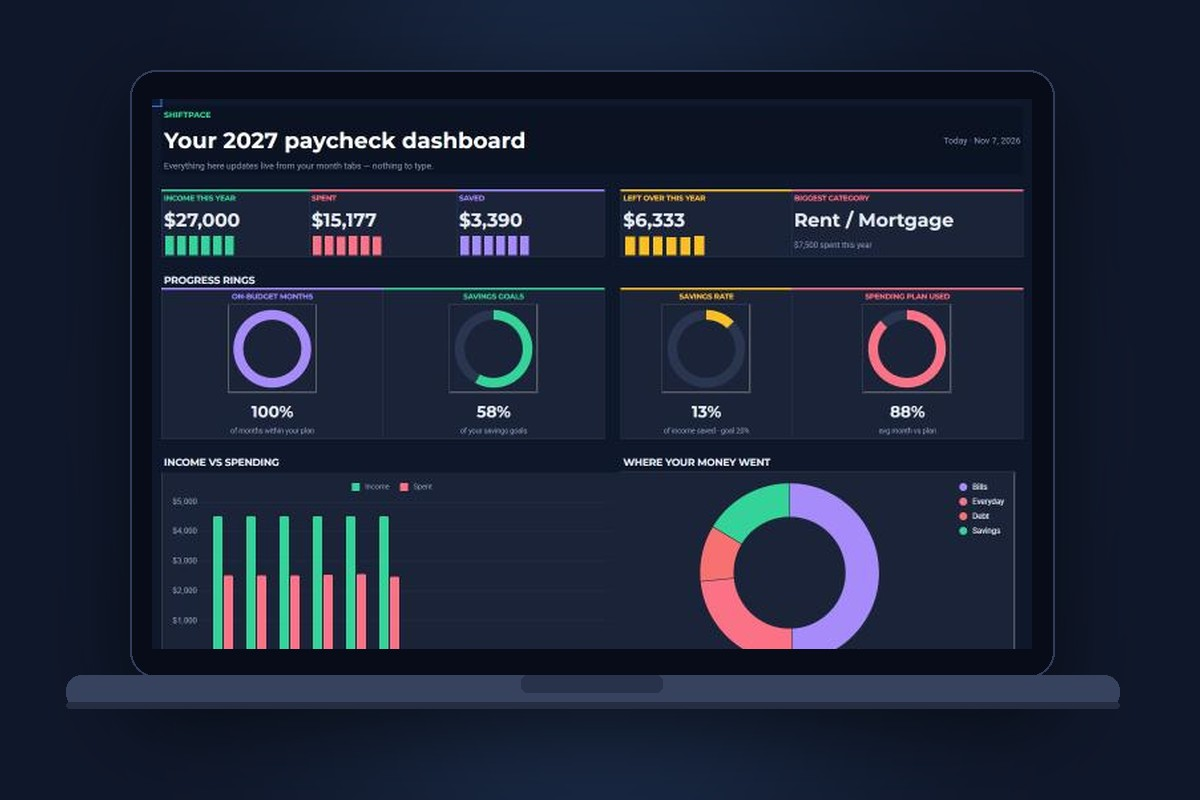
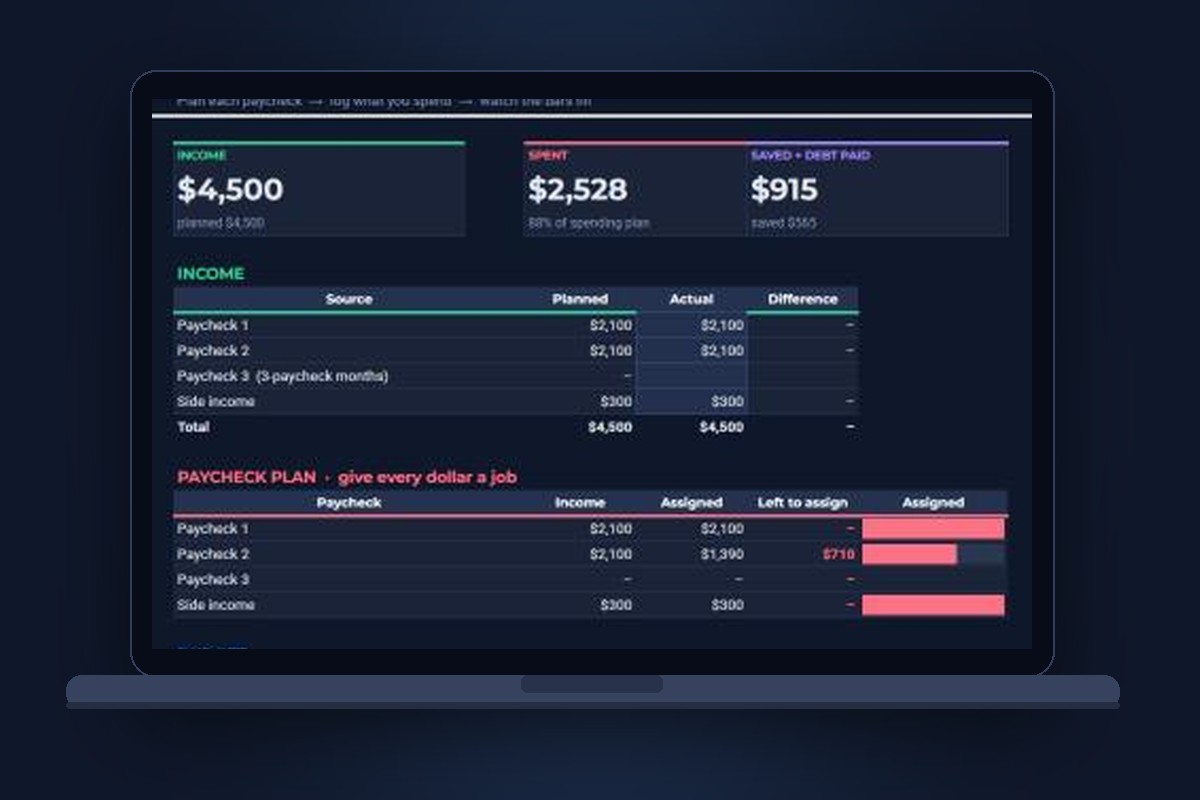
Add files via upload

Changed region(s): [[0.1233, 0.125, 0.8633, 0.8125], [0.4933, 0.75, 0.5242, 0.7812]]

diff --git a/testers.html b/testers.html
@@ -1,0 +1,141 @@
+<!doctype html>
+<html lang="en">
+<head>
+<meta charset="utf-8">
+<meta name="viewport" content="width=device-width, initial-scale=1">
+<title>Become a ShiftPace Founding Tester</title>
+<meta name="description" content="10 people get the 2027 Life Reset Bundle free in exchange for an honest video review.">
+<meta property="og:title" content="Become one of 10 ShiftPace Founding Testers">
+<meta property="og:description" content="Get all 5 Google Sheets planners free in exchange for an honest video review.">
+<meta property="og:image" content="https://shiftpace.github.io/img/card-bundle.jpg">
+<meta name="theme-color" content="#0F172A">
+<link rel="icon" href="favicon.svg" type="image/svg+xml">
+<link rel="icon" href="img/favicon-32.png" type="image/png" sizes="32x32">
+<link rel="apple-touch-icon" href="img/apple-touch-icon.png">
+<link rel="preconnect" href="https://fonts.googleapis.com">
+<link rel="preconnect" href="https://fonts.gstatic.com" crossorigin>
+<link href="https://fonts.googleapis.com/css2?family=Inter:wght@400;500;600;700;800&display=swap" rel="stylesheet">
+<style>
+:root{--bg:#0F172A;--card:#1A2338;--line:#26324D;--text:#E6EAF2;--muted:#94A3B8;--green:#34D399;--cyan:#22D3EE;--pink:#FB7185;--blue:#60A5FA;--yellow:#FBBF24;--violet:#A78BFA}
+*{box-sizing:border-box;margin:0;padding:0}
+body{background:var(--bg);color:var(--text);font-family:Inter,system-ui,sans-serif;line-height:1.65;-webkit-font-smoothing:antialiased}
+a{color:var(--cyan)}
+.wrap{max-width:880px;margin:0 auto;padding:0 20px}
+nav{border-bottom:1px solid var(--line)}
+nav .wrap{display:flex;justify-content:space-between;align-items:center;height:64px}
+.logo{display:flex;align-items:center;gap:10px;font-weight:800;font-size:19px;color:var(--text);text-decoration:none}
+nav a.back{color:var(--muted);text-decoration:none;font-size:15px}
+.hero{padding:56px 0 8px;display:grid;grid-template-columns:1.1fr .9fr;gap:36px;align-items:center}
+@media(max-width:800px){.hero{grid-template-columns:1fr}}
+.eyebrow{display:inline-block;font-size:13px;font-weight:700;letter-spacing:.08em;text-transform:uppercase;color:var(--green);margin-bottom:12px}
+h1{font-size:clamp(32px,5vw,48px);font-weight:800;letter-spacing:-.02em;line-height:1.12;margin-bottom:14px}
+h1 span{background:linear-gradient(90deg,var(--green),var(--cyan));-webkit-background-clip:text;background-clip:text;color:transparent}
+.lead{color:var(--muted);font-size:18px;margin-bottom:24px}
+.hero img{width:100%;height:auto;border-radius:18px;display:block}
+.btn{display:inline-flex;align-items:center;justify-content:center;font-weight:700;font-size:17px;padding:15px 26px;border-radius:12px;background:var(--green);color:#06281C;text-decoration:none;box-shadow:0 8px 24px -8px rgba(52,211,153,.55);transition:transform .15s}
+.btn:hover{transform:translateY(-2px)}
+.meta{display:flex;flex-wrap:wrap;gap:8px 18px;margin-top:16px;color:var(--muted);font-size:14px}
+.meta b{color:var(--text)}
+.spots{display:inline-flex;align-items:center;gap:8px;background:rgba(52,211,153,.12);border:1px solid rgba(52,211,153,.35);color:var(--green);font-weight:700;font-size:14px;padding:6px 12px;border-radius:99px;margin-bottom:16px}
+.spots i{width:8px;height:8px;border-radius:50%;background:var(--green);display:block}
+h2{font-size:26px;font-weight:800;margin:56px 0 18px;letter-spacing:-.01em}
+.steps{display:grid;grid-template-columns:repeat(4,1fr);gap:14px}
+@media(max-width:800px){.steps{grid-template-columns:1fr 1fr}}
+@media(max-width:480px){.steps{grid-template-columns:1fr}}
+.step{background:var(--card);border:1px solid var(--line);border-radius:16px;padding:20px}
+.num{width:38px;height:38px;border-radius:50%;border:3px solid var(--c);color:var(--c);display:grid;place-items:center;font-weight:800;margin-bottom:12px}
+.step h3{font-size:16px;margin-bottom:4px}
+.step p{color:var(--muted);font-size:14px}
+.film{background:var(--card);border:1px solid var(--line);border-radius:16px;padding:8px 22px}
+.film div{display:grid;grid-template-columns:110px 1fr;gap:14px;padding:14px 0;border-bottom:1px solid var(--line)}
+.film div:last-child{border-bottom:0}
+.film b{color:var(--cyan);font-size:14px}
+.film span{color:#CBD5E1;font-size:15px}
+.note{margin-top:14px;color:var(--muted);font-size:14px}
+ul.rules{list-style:none;display:grid;gap:10px}
+ul.rules li{background:var(--card);border:1px solid var(--line);border-radius:12px;padding:14px 18px;color:#CBD5E1;font-size:15px}
+ul.rules li b{color:var(--text)}
+details{background:var(--card);border:1px solid var(--line);border-radius:14px;padding:4px 20px;margin-bottom:10px}
+summary{cursor:pointer;font-weight:700;padding:14px 0;list-style:none}
+summary::-webkit-details-marker{display:none}
+details p{color:var(--muted);padding:0 0 16px;font-size:15px}
+.cta{margin:56px 0 0;background:var(--card);border:1px solid rgba(52,211,153,.35);border-radius:22px;padding:40px 24px;text-align:center}
+.cta p{color:var(--muted);margin:8px 0 22px}
+footer{border-top:1px solid var(--line);margin-top:56px;padding:28px 0;color:var(--muted);font-size:13px}
+</style>
+</head>
+<body>
+<nav><div class="wrap">
+  <a class="logo" href="index.html"><svg width="28" height="28" viewBox="0 0 36 36"><circle cx="18" cy="18" r="14" fill="none" stroke="#26324D" stroke-width="5"/><circle cx="18" cy="18" r="14" fill="none" stroke="#34D399" stroke-width="5" stroke-linecap="round" stroke-dasharray="66 88" transform="rotate(-90 18 18)"/><circle cx="18" cy="18" r="6.5" fill="none" stroke="#22D3EE" stroke-width="3.5" stroke-linecap="round" stroke-dasharray="28 41" transform="rotate(-90 18 18)"/></svg>ShiftPace</a>
+  <a class="back" href="index.html">← Back to planners</a>
+</div></nav>
+
+<main class="wrap">
+<section class="hero">
+  <div>
+    <span class="eyebrow">Founding Testers</span>
+    <div class="spots"><i></i><span id="spots">10 spots</span></div>
+    <h1>Get all 5 planners <span>free</span> for an honest video review</h1>
+    <p class="lead">We’re a brand-new brand and we want real feedback from real people. Use the 2027 Life Reset Bundle for a week or two, then tell us — on camera — what you honestly think.</p>
+    <a class="btn apply" href="#" target="_blank" rel="noopener">Apply in 2 minutes</a>
+    <div class="meta"><span><b>$29</b> value</span><span>US residents 18+</span><span>Applications close <b id="deadline">November 30, 2026</b></span></div>
+  </div>
+  <img src="img/card-bundle.jpg" alt="All five ShiftPace planners" width="1200" height="800">
+</section>
+
+<h2>How it works</h2>
+<div class="steps">
+  <div class="step" style="--c:var(--green)"><div class="num">1</div><h3>Apply</h3><p>Fill out a short form: who you are and what you’d use the planners for.</p></div>
+  <div class="step" style="--c:var(--cyan)"><div class="num">2</div><h3>Get picked</h3><p>We choose 10 testers based on their applications and email you the bundle.</p></div>
+  <div class="step" style="--c:var(--violet)"><div class="num">3</div><h3>Use it</h3><p>Set up your planner and use it for 7–14 days, the way you normally would.</p></div>
+  <div class="step" style="--c:var(--yellow)"><div class="num">4</div><h3>Send a video</h3><p>Record a 30–60 second honest review and send it to us by email.</p></div>
+</div>
+
+<h2>What to film</h2>
+<div class="film">
+  <div><b>0–5 sec</b><span>Who you are, in one line. <em>“I’m a nurse in Ohio and I get paid every two weeks.”</em></span></div>
+  <div><b>5–35 sec</b><span>Show your planner on your laptop or phone and what you actually used it for. Blur or skip anything private — fake numbers are fine.</span></div>
+  <div><b>35–55 sec</b><span>Your honest opinion: what you liked, what was confusing, what you’d change.</span></div>
+  <div><b>Last line</b><span>Say: <em>“I got this planner free in exchange for an honest review.”</em></span></div>
+</div>
+<p class="note">Camera-shy? A screen recording with your voice works just as well. Selfie video, phone vertical, natural light — no editing needed.</p>
+
+<h2>The rules</h2>
+<ul class="rules">
+  <li><b>Honest means honest.</b> Negative or mixed feedback is welcome. You will not be asked to say anything you don’t believe.</li>
+  <li><b>Disclosure is required.</b> Your video must mention that you got the planner free. If we share it, we’ll label it the same way.</li>
+  <li><b>Selection is not random.</b> We pick testers based on their applications. Applying doesn’t guarantee a spot.</li>
+  <li><b>One spot per person,</b> US residents 18 and older.</li>
+  <li><b>Permission to share.</b> By sending a video, you allow ShiftPace Planners LLC to show it on our website and social media. You can ask us to remove it at any time.</li>
+  <li><b>Your privacy matters.</b> We only use your email to send the planner and talk about your review. We never sell it.</li>
+</ul>
+
+<h2>Questions</h2>
+<details><summary>Do I need a big following?</summary><p>No. You don’t need to post anything on your own accounts. Just send the video to us.</p></details>
+<details><summary>What if I don’t like the planners?</summary><p>Then say so in your video. That feedback helps us improve, and it’s exactly what we’re asking for.</p></details>
+<details><summary>Do I have to show my real finances?</summary><p>No. Use example numbers or blur anything personal. We care about how the planner works for you, not your actual balances.</p></details>
+<details><summary>What if life gets busy and I can’t make a video?</summary><p>Just let us know by email. We’d rather hear that than nothing.</p></details>
+<details><summary>Can I post my review elsewhere?</summary><p>On your own social accounts, sure — please keep the disclosure line in it. Please don’t post it as a review on review sites like Google or Trustpilot, since they don’t allow reviews for free products.</p></details>
+
+<div class="cta">
+  <h2 style="margin:0">Want in?</h2>
+  <p>10 spots. Applications close <span class="deadline-copy">November 30, 2026</span>.</p>
+  <a class="btn apply" href="#" target="_blank" rel="noopener">Apply now</a>
+</div>
+</main>
+
+<footer><div class="wrap">© 2026 ShiftPace Planners LLC · Questions: <a href="mailto:shiftpacellc@gmail.com">shiftpacellc@gmail.com</a> · Google Sheets is a trademark of Google LLC; ShiftPace is not affiliated with Google.</div></footer>
+
+<script>
+// ▼ EDIT THESE THREE LINES
+const FORM_URL   = "https://forms.gle/REPLACE_ME";   // your Google Form link
+const SPOTS_LEFT = 10;                                // update as you pick testers
+const DEADLINE   = "November 30, 2026";
+
+document.querySelectorAll(".apply").forEach(a => a.href = FORM_URL);
+document.getElementById("spots").textContent = SPOTS_LEFT > 0 ? SPOTS_LEFT + (SPOTS_LEFT === 1 ? " spot left" : " spots left") : "All spots filled";
+document.querySelectorAll("#deadline,.deadline-copy").forEach(e => e.textContent = DEADLINE);
+if (SPOTS_LEFT <= 0) document.querySelectorAll(".apply").forEach(a => { a.removeAttribute("href"); a.textContent = "All spots filled — thank you!"; a.style.opacity = .5; });
+</script>
+</body>
+</html>

diff --git a/index.html b/index.html
@@ -146,6 +146,13 @@ details p{color:var(--muted);padding:0 0 18px;font-size:15px}
 details a{color:var(--cyan);text-decoration:underline}
 
 /* final cta */
+.reviews{display:grid;grid-template-columns:repeat(auto-fill,minmax(260px,1fr));gap:20px;margin-top:40px}
+.review{background:var(--card);border:1px solid var(--line);border-radius:var(--r);overflow:hidden}
+.review video,.review iframe{display:block;width:100%;aspect-ratio:9/16;border:0;background:#000}
+.review .cap{padding:14px 16px;font-size:14px;color:#CBD5E1}
+.review .disc{display:block;margin-top:6px;font-size:12px;color:var(--muted)}
+.tester-cta{max-width:720px;margin:40px auto 0;background:var(--card);border:1px dashed rgba(52,211,153,.5);border-radius:20px;padding:32px 24px;text-align:center}
+.tester-cta p{color:var(--muted);margin:8px 0 20px}
 .final{background:var(--card);border:1px solid var(--line);border-radius:24px;padding:56px 24px;text-align:center}
 .final .lead{margin:0 auto 26px}
 
@@ -175,7 +182,7 @@ footer{border-top:1px solid var(--line);padding:44px 0 36px;color:var(--muted);f
       <a href="#planners">Planners</a>
       <a href="#how">How it works</a>
       <a href="#faq">FAQ</a>
-      <a href="start.html">Getting started</a>
+      <a href="testers.html">Free for testers</a>
       <a class="btn btn-primary" href="https://buy.stripe.com/4gMaEX33q0CR0dx2BHgUM05">Get the Bundle</a>
     </div>
   </div>
@@ -320,6 +327,29 @@ footer{border-top:1px solid var(--line);padding:44px 0 36px;color:var(--muted);f
   </div>
 </section>
 
+<section id="reviews" style="padding-top:20px">
+  <div class="wrap">
+    <div class="center"><span class="eyebrow">Reviews</span><h2>Real people, honest opinions</h2>
+      <p class="lead">We’re new, so we don’t have reviews yet — and we won’t make any up. Our first testers’ honest videos will appear here.</p></div>
+
+    <!-- When a tester video arrives: copy this block inside .reviews and remove the tester-cta below once you have a few.
+    <div class="reviews">
+      <article class="review">
+        <video src="img/review-1.mp4" controls playsinline preload="metadata" poster="img/review-1.jpg"></video>
+        <div class="cap"><b>Jessica, Ohio</b> · Paycheck Budget Planner
+          <span class="disc">Received the planner free in exchange for an honest review.</span></div>
+      </article>
+    </div>
+    -->
+
+    <div class="tester-cta">
+      <h3 style="font-size:22px">Be one of our first 10 testers</h3>
+      <p>Get all 5 planners free in exchange for an honest video review — good or bad.</p>
+      <a class="btn btn-primary" href="testers.html">See how it works</a>
+    </div>
+  </div>
+</section>
+
 <section id="faq" style="padding-top:20px">
   <div class="wrap">
     <div class="center"><span class="eyebrow">FAQ</span><h2>Questions, answered</h2></div>
@@ -355,7 +385,7 @@ footer{border-top:1px solid var(--line);padding:44px 0 36px;color:var(--muted);f
     <div class="foot">
       <a href="#top" class="logo"><svg width="26" height="26"><use href="#logo"/></svg>ShiftPace</a>
       <div class="foot-links">
-        <a href="#planners">Planners</a><a href="#how">How it works</a><a href="#faq">FAQ</a><a href="start.html">Getting started</a><a class="email-link" href="mailto:shiftpacellc@gmail.com">Contact</a>
+        <a href="#planners">Planners</a><a href="#how">How it works</a><a href="#faq">FAQ</a><a href="start.html">Getting started</a><a href="testers.html">Free for testers</a><a class="email-link" href="mailto:shiftpacellc@gmail.com">Contact</a>
       </div>
     </div>
     <p class="fine">© <span id="yr">2026</span> ShiftPace Planners LLC. All rights reserved. Digital products only — no physical items will be shipped. ShiftPace templates are for personal organization and are not financial, tax or legal advice. Contact: shiftpacellc@gmail.com. Payments are processed by Stripe. Google Sheets and Google Drive are trademarks of Google LLC; Etsy is a trademark of Etsy, Inc. ShiftPace is not affiliated with or endorsed by Google or Etsy.</p>
